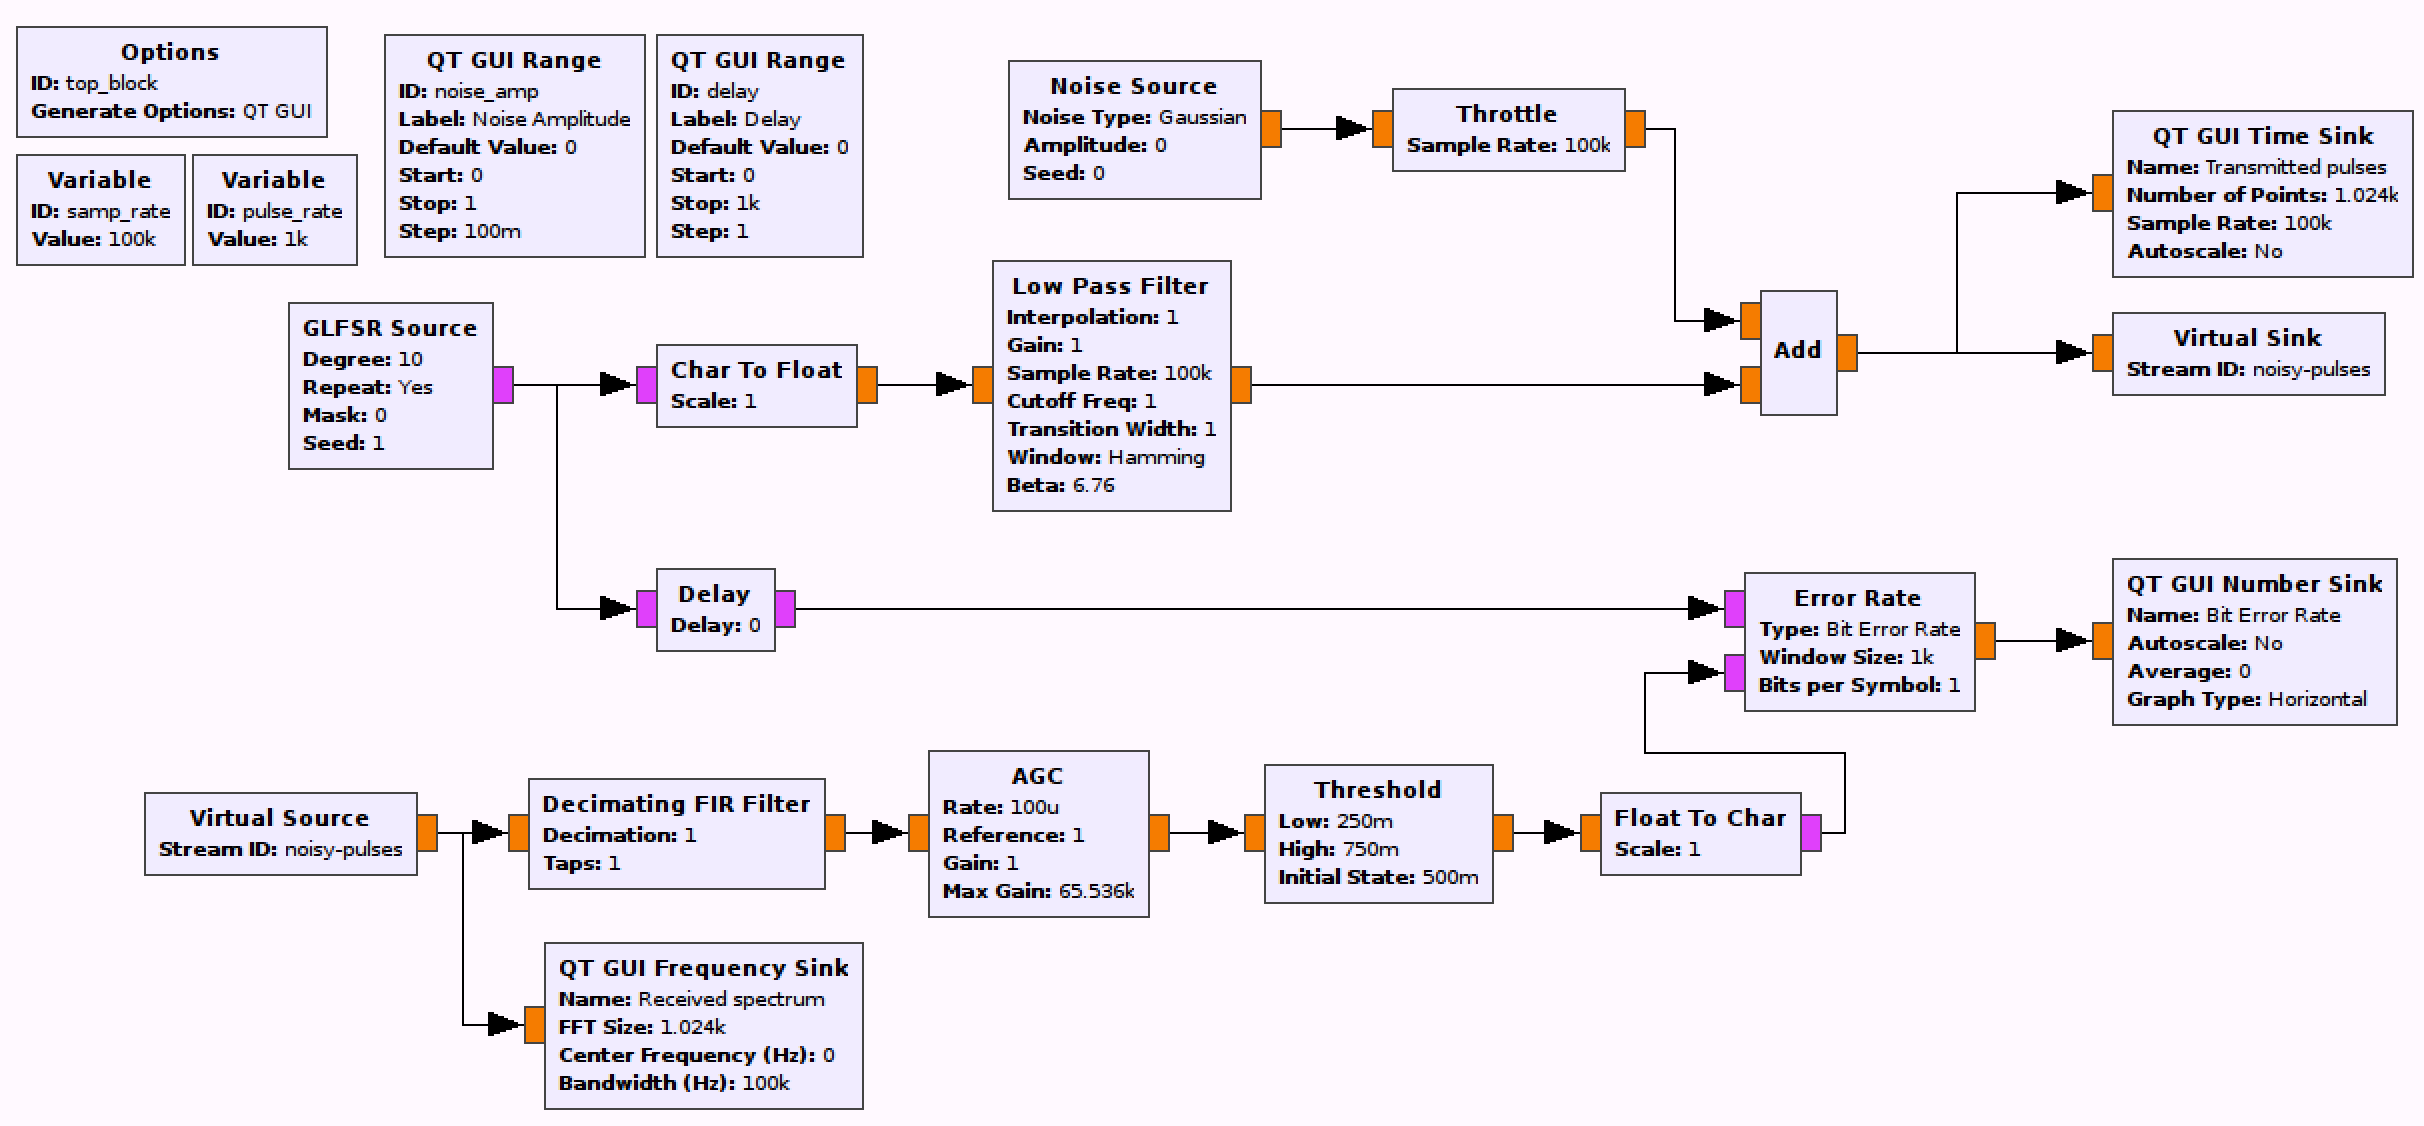
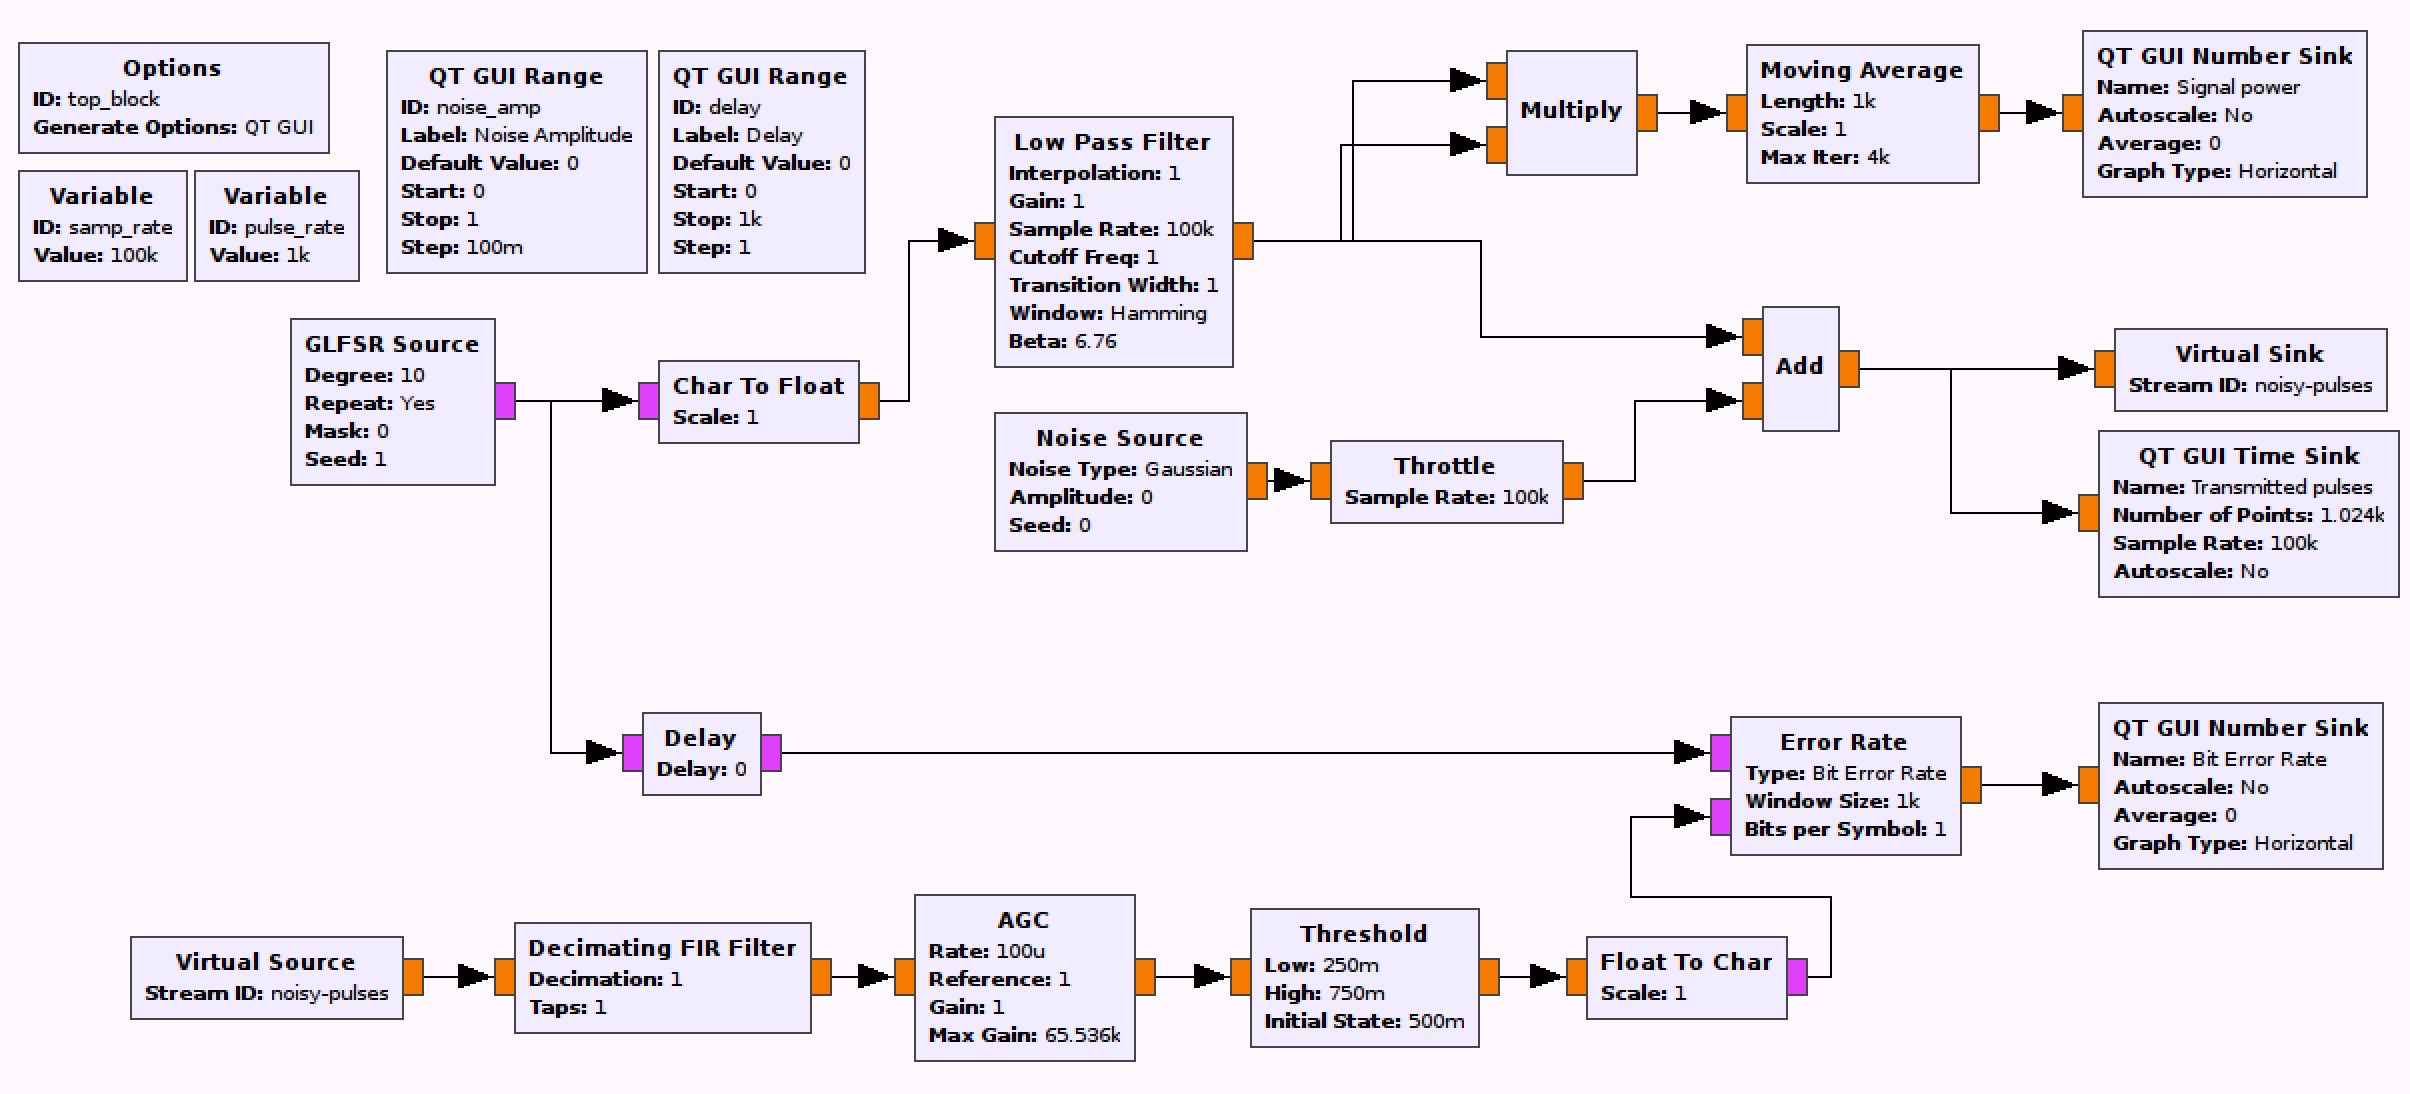
Latest and closest

diff --git a/_ece450/lab1/impulse-rrc-shaping.md b/_ece450/lab1/impulse-rrc-shaping.md
@@ -18,7 +18,7 @@ You will implement a communications system using a Root Raised Cosine (RRC) filt
 
 For this section, the deliverables are:
 
-- the answers to two deliverable questions,
+- the answers to three deliverable questions,
 - a dataset for later use in this lab.
 
 ---
@@ -38,23 +38,28 @@ Construct the following GRC flowgraph. It is very similar to the previous pulse 
   - The interpolation factor is the same as for the previous pulse-shaping methods (and for all pulse shaping methods it is the number of samples per pulse when coming from a bit stream to a waveform).
   - The gain can be found in the same way as with the LPF pulse shaping. Measure the amplitude and set the gain such that the shaped pulses are 1 or 0.
 
-- The receiver chain is now using a matching *Root Raised Cosine Filter* to obtain a final pulse shape that is a raised cosine (review [the theory section]({% link _ece450/lab1/theory.md %})).
+- The receiver chain is now using a matching *Root Raised Cosine Filter* to obtain a final pulse shape that is a raised cosine (review [the theory section]({% link _ece450/lab1/theory.md %}) for more on this).
   - The filter is of type "Float->Float (Decimating)"
   - Set the number of taps to the sampling rate.
   - Set the symbol rate and decimation rates appropriately.
-  - Do not change the gain, the AGC is managing this afterwards.
+  - Do not change the gain, by observing the output of the filter you will see that the input symbols (scaled to 1 above) are all either 1 or 0. The threshold block helps when noise is added, so leave it in.
 
-- The delay can be found as before. It is 1000 samples with the above listed filter parameters.
+{% include alert.html title="Note" content="Since this is a **matched filter** it is the dual to the transmitter RRC filter. It's parameters should reflect this." %}
 
-- Now collect a dataset of SNR and BER at noise amplitudes of 0.0, 0.1, 0.2, ... 0.9, 1.0.
-  - The Bit Error Rate can be read off of the *QT GUI Number Sink* output. After changing the noise amplitude, let the BER stabilize before recording it.
-  - To read the SNR, activate the "Control Panel" option in the *QT GUI Frequency Sink* block parameters. Then, while the flowgraph is running, set "Trace Options" to "Max Hold" and make sure the "Avg" slider is set to maximum. This should make it easier to read the signal SNR off of the generated spectrum.
-  - As you record these values, observe the transmitted noisy pulses and the spectrum. How does the spectral shape compare with the LPF version?
+- The delay can be found as before. It is 1000 samples with the above listed filter parameters (which means a 500 sample delay for each of the matched filters).
+
+- Now collect a dataset of signal power and BER values at noise standard deviations of 0.0, 0.1, 0.2, ..., 0.9, 1.0.
+  - Since we can set the standard deviation of the noise source, we can estimate the noise power (text section 3.1.3.4)
+  - The Bit Error Rate can be read off of the appropriate *QT GUI Number Sink* output. After changing the noise variance, let the BER stabilize before recording it. Remember that the sampling rate of the system is 100 kHz and the averaging window for the BER measurement is 10M samples. It follows that the first valid BER value will be delivered after 100s. I waited 5 minutes for each number to stabilize to 4 decimal places
+  - To get the signal power, read off of the appropriate *QT GUI Number Sink* output. This number should not change with the noise power since it is measured before the WGN is added to the signal.
+  - As you record these values, observe the transmitted noisy pulses. How does the spectral shape compare with the LPF version?
 
 - Change the noise amplitude back to 0 and offset the delay value by 1.
 
 {% include alert.html title="Deliverable question 2" class="info" content="Consider the time domain shape (impulse response) of the root raised cosine filter. In an ideal system, RRC filters have zero-ISI (inter-symbol interference). Why is this? It may help your understanding to draw multiple pulses `[1, 1, 1]` next to each other." %}
 
 {% include alert.html title="Deliverable question 3" class="info" content="Consider the relative impact of noise versus a timing offset on the system. Does the RRC filter fare any better than the square pulses did with an offset of 1 sample?" %}
+
+{% include alert.html title="Deliverable question 4" class="info" content="Consider the results you gathered for the LPF pulse shaping method (at noise powers of 0.01, 0.025 and 0.1). How do they compare with this matched filter version?" %}
 
 Review the [section deliverables](#part-3-deliverables) beforing moving on.

diff --git a/_ece450/lab1/impulse-lpf-shaping.md b/_ece450/lab1/impulse-lpf-shaping.md
@@ -42,6 +42,8 @@ Construct the following GRC flowgraph.
   - The "FIR Type" should be "Float->Float (Interpolating)",
   - the cutoff frequency has to capture the message frequency, so setting it to twice the pulse rate (`pulse_rate*2`) provides some wiggle room in the filter passband.
 
+- Before adding noise the the signal, we want to measure the signal power so we use a *Multiply* block with both inputs being the signal. This gives us instantaneous power ($$s^2(t)$$) for later computing $$\frac{E_b}{N_0}$$. Set the length of the moving average filter to 1000000 (1M) and the scale to the inverse (the scale must be 1/Length in order to computer the actual moving average instead of a moving sum).
+
 - The WGN (White Gaussian Noise) is controlled by a *QT GUI Range* block. The "Amplitude" here indicates the noise standard deviation which be used for estimating the noise power. The noise power of pure White Gaussian noise is the variance of the distribution (text section 3.1.3.4).
 
 - The *Virtual Sink* and *Virtual Source* blocks can be considered as connected by an "invisible" line on the flowgraph. They can be used for more complex tasks, but here they just keep the flowgraph from being criss-crossed with lines. They are also used to simulate a "transmitter" and "receiver". In this case the *Virtual Sink* transmits the noisy baseband waveform while the *Virtual Source* receives it.
@@ -55,7 +57,7 @@ Construct the following GRC flowgraph.
   - When the input signal transitions from above to below the "Low" threshold, the output becomes a 0.
   - For our input an intelligent starting place would be to have 0.25 and 0.75 as the threshold bounds, but you should set up two *QT GUI Range* blocks to control these values.
 
-- To evaluate the system performance, we can compute the BER of the system by using the *Error Rate* block. This block compares the two input bit streams. The "Window Size" parameter determines the number of samples used for the BER computation. Use a Window Size of 10000000 and set the Bits per Symbol to 1.
+- To evaluate the system performance, we can compute the BER of the system by using the *Error Rate* block. This block compares the two input bit streams. The "Window Size" parameter determines the number of samples used for the BER computation. Use a Window Size of 10000000 (10M) and set the Bits per Symbol to 1 (since this is a BPSK signal).
 
 {% include alert.html title="Note" content="Ensure the Window Size is at least 10 million samples, if your computer is able, increase this number as much as you can. This directly impacts the resolution of your BER measurements. The larger the window, the more accurate the measurement!" %}
 
@@ -95,12 +97,7 @@ Because the "received" bitstream is processed by more blocks before feeding into
 
 - Once you have the delay parameter set, you can disable the blocks you used to capture that value.
 
-<!-- - Now collect a dataset of SNR and BER at noise amplitudes of 0.0, 0.1, 0.2, ... 0.9, 1.0.
-  - The Bit Error Rate can be read off of the *QT GUI Number Sink* output. After changing the noise amplitude, let the BER stabilize before recording it. Record it to as many decimal places as you feel confident about.
-  - To read the SNR, activate the "Control Panel" option in the *QT GUI Frequency Sink* block parameters. Then, while the flowgraph is running, set "Trace Options" to "Max Hold" and make sure the "Avg" slider is set to maximum. This should make it easier to read the signal SNR off of the generated spectrum.
-  - As you record these values, observe the transmitted noisy pulses and the spectrum. Is the spectral shape what you expected? -->
-
-- Record the BER rate at SNRs of 60 dB, 30 dB and 10 dB.
+- Record the BER rate at noise powers of 0.1, 0.5 and 1.
 
 - Offset the delay by a single sample. Check the BER with no added noise.
 

diff --git a/_ece450/lab1/calculating-ber.md b/_ece450/lab1/calculating-ber.md
@@ -26,7 +26,7 @@ For this section, the deliverables are:
 
 ## Generating a BER curve
 
-Using the values collected throughout this lab you can now generate a BER curve. Remember that while you measured the SNR of these systems, you are in generating a $$BER-\frac{E_b}{N_0}$$ curve, _not_ a $$BER-SNR$$ curve.
+Using the values collected throughout this lab you can now generate a BER curve. Remember that while you measured the signal power and set the noise power of the system, you are in generating a $$BER-\frac{E_b}{N_0}$$ curve, _not_ a $$BER-SNR$$ curve.
 
 You can use a programming language of your choice, but python or matlab have some handy tools for this job built in.
 
@@ -35,17 +35,17 @@ The plot should have:
 - a log scale on the y-axis
 - a linear scale on the x-axis
 - appropriate axes titles
-- a legend (one entry for each of: "LPF", "RRC", "Theory")
+- a legend (one entry for each of: "RRC", "Theory")
 
 For generating a simulated curve of the theoretical $$BER-\frac{E_b}{N_0}$$ review the theory section of this lab. For the Q-function, Matlab ships with [`qfunc()`](https://www.mathworks.com/help/comm/ref/qfunc.html) while python has [`norm.sf()`](https://docs.scipy.org/doc/scipy-0.19.1/reference/generated/scipy.stats.norm.html) included in the scipy package.
 
-A sample of what it might look like is included below (without labelling elements). **This sample had some curve-fitting/interpolation done to it which you do not need to do.**
+A sample of what it might look like is included below (without labelling elements).
 
   ![BER-curve.png](figures/BER-curve.png)
   __*Sample BER curve*__
 
-{% include alert.html title="Deliverable question 4" class="info" content="Provide insight into your results. What does the BER curve tell you about these pulse-shaping options?" %}
+{% include alert.html title="Deliverable question 5" class="info" content="Provide insight into your results. What does the BER curve tell you about your communication system?" %}
 
-{% include alert.html title="Deliverable question 5" class="info" content="How similar are the LPF and RRC curves? If there is any difference, what causes it? _Hint: consider the energy per bit and how you controlled that in these flowgraphs._" %}
+{% include alert.html title="Deliverable question 6" class="info" content="How similar are the simulation and the theory results? What causes any differences that exist?" %}
 
 Review the [section deliverables](#part-4-deliverables) beforing moving on.

diff --git a/_ece450/lab1/conclusion.md b/_ece450/lab1/conclusion.md
@@ -8,13 +8,13 @@ prev: /ece450/lab1/calculating-ber
 next: /ece450/lab2
 ---
 
-In this lab, you used GNU Radio to test several different pulse shaping methods. You recorded SNR and BER values for each and wrote a short script to turn them into a $$BER-\frac{E_b}{N_0}$$ curve. You also learned about the importance of timing recovery.
+In this lab, you used GNU Radio to test several different pulse shaping methods. You recorded BER values for each and wrote a short script to turn them into a $$BER-\frac{E_b}{N_0}$$ curve. You also learned about the importance of timing recovery.
 
 ## Deliverables
 
 In this lab there are the following deliverables:
 
-- a single page of answers to the deliverable questions laid out in the lab. In this lab there are 5 of them. They are all highlighted and labelled with their respective question numbers. Each question (hopefully) required some thought and was answered concisely with 1 to 2 sentences of text and perhaps an accompanying figure.
+- a single page of answers to the deliverable questions laid out in the lab. In this lab there are 6 of them. They are all highlighted and labelled with their respective question numbers. Each question (hopefully) required some thought and was answered concisely with 1 to 2 sentences of text and perhaps an accompanying figure.
 - a short code you wrote to generate a $$BER-\frac{E_b}{N_0}$$ curve
 - your final $$BER-\frac{E_b}{N_0}$$R curve figure
 

diff --git a/_ece450/lab1/introduction.md b/_ece450/lab1/introduction.md
@@ -22,7 +22,7 @@ You will learn about:
 
 In this lab there are the following deliverables:
 
-- a single page of answers to the deliverable questions laid out in the lab. In this lab there are 5 of them. They are all highlighted and labelled with their respective question numbers. Each question will require some thought and should be answered concisely with 1 to 2 sentences of text and perhaps an accompanying figure.
+- a single page of answers to the deliverable questions laid out in the lab. In this lab there are 6 of them. They are all highlighted and labelled with their respective question numbers. Each question will require some thought and should be answered concisely with 1 to 2 sentences of text and perhaps an accompanying figure.
 - a short code you write to generate a BER versus SNR curve
 - your final BER versus SNR curve figure
 
